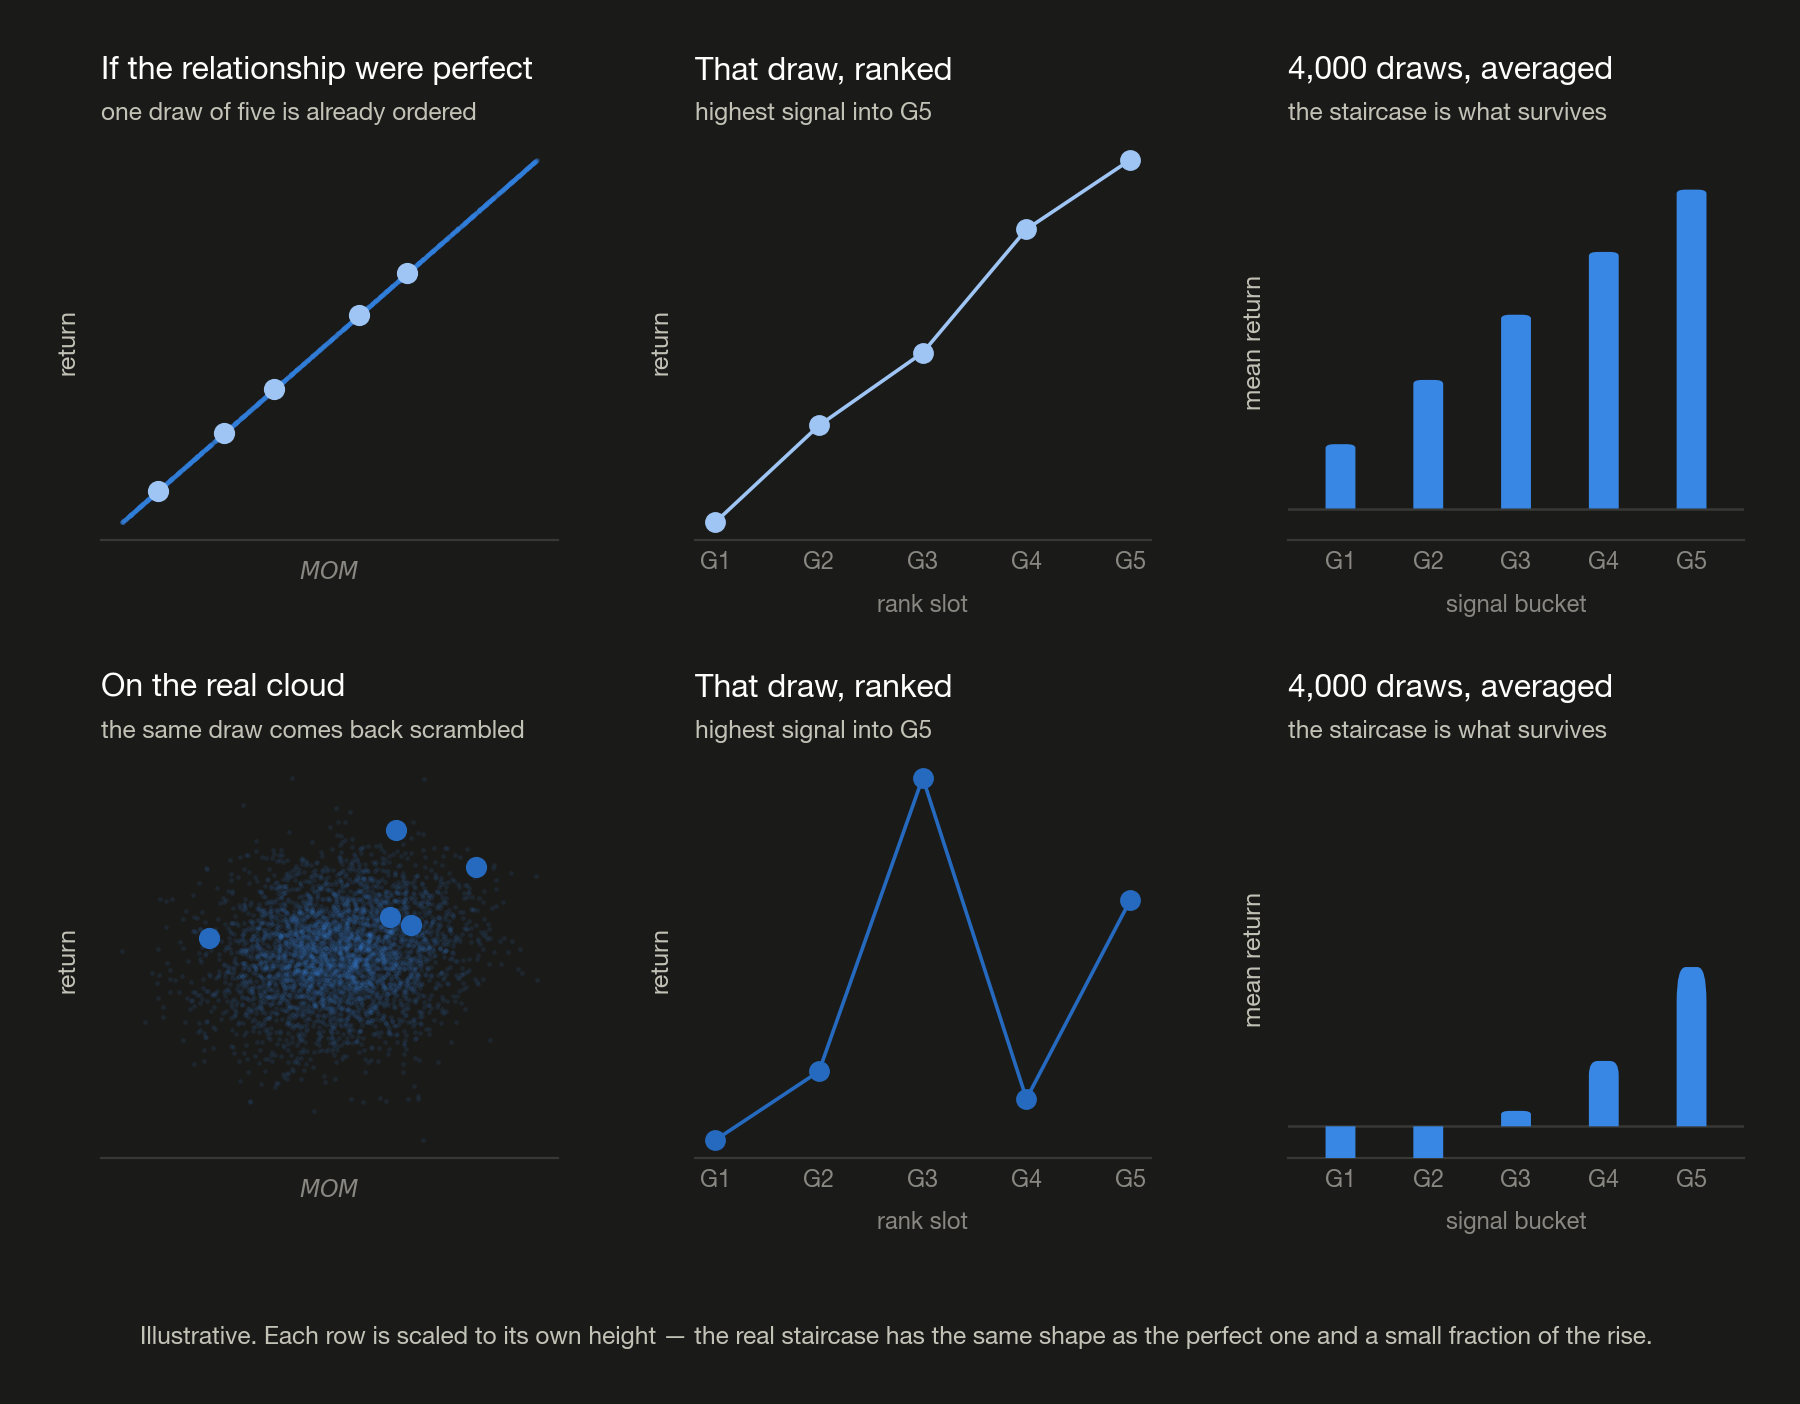
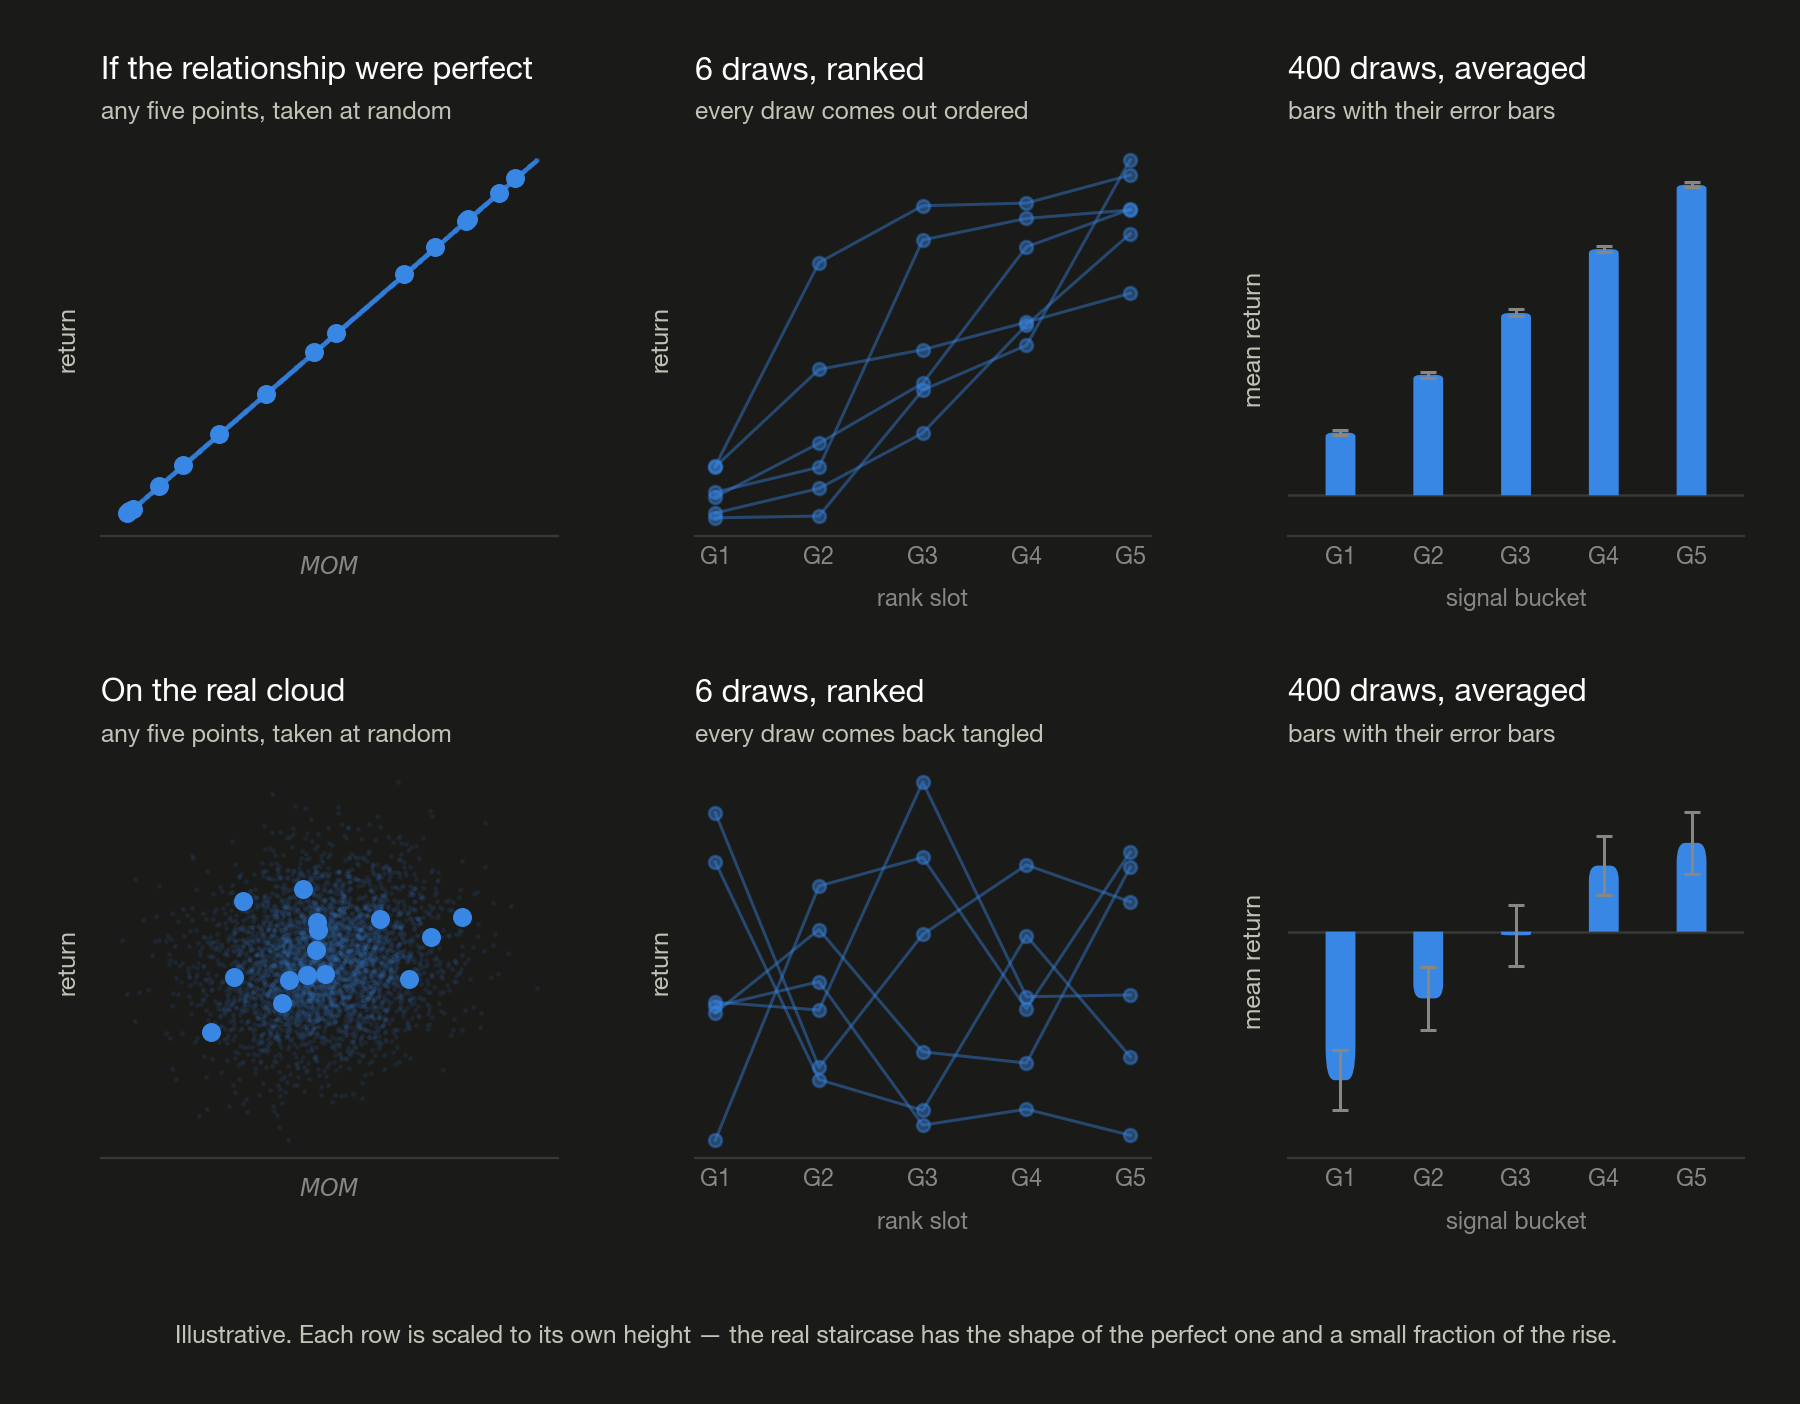
Put error bars on 3.2's staircase and stop the draws looking like two classes
Every drawn point is now the same colour, fifteen of them scattered through
the population, so the figure says any five will do. The middle column shows
six draws at once instead of one: on the line they all rise, on the cloud they
cross and tangle. The averaged bars carry error bars, baselined at zero like
the rest of the chapter, and the count drops to 400 draws so those error bars
are honest and visible rather than a rounding line.

diff --git a/docs/figures/make_02_building_signals.py b/docs/figures/make_02_building_signals.py
@@ -151,80 +151,80 @@ def alpha_opacity(mode):
 def bucket_construction(mode):
     """02 s3.2 -- draw five, rank them, repeat, average — on a line and on a cloud.
 
-    Schematic. Top row: a perfect relationship, where one draw of five is
-    already ordered. Bottom row: the real 12%-correlation cloud, where the same
-    draw comes back scrambled and the order only survives the average. Right
-    column keeps the shape and loses most of the height. Illustrative values.
+    Schematic. Top row: a perfect relationship, where every draw of five comes
+    out ordered. Bottom row: the real 12%-correlation cloud, where each draw is
+    tangled and the order survives only in the average of 400 of them. Every
+    drawn point is the same colour: any five will do, and no draw is special.
     """
     t = THEMES[mode]
-    rng = np.random.RandomState(4)
-    dark, light = t["ramp"][5], t["ramp"][2]
-    n, draws = 4000, 4000
+    rng = np.random.RandomState(9)
+    n, shown, total = 4000, 6, 400
 
-    # ---- the two worlds, each a population to sample from
     lx = rng.uniform(0, 10, n)
     ly = lx.copy()                                   # perfect: return is the signal
     cx = rng.standard_normal(n)
     cy = 0.12 * cx + (1 - 0.12 ** 2) ** 0.5 * rng.standard_normal(n)
 
-    pick_l = rng.choice(n, 5, replace=False)
-    pick_c = np.array([i for i in rng.choice(n, 40, replace=False)][:5])
-
-    def ladder(px, py):
-        """mean return per rank slot, over many draws of five"""
-        idx = rng.randint(0, len(px), size=(draws, 5))
-        xs, ys = px[idx], py[idx]
-        order = np.argsort(xs, axis=1)
-        return np.take_along_axis(ys, order, axis=1).mean(axis=0)
+    def slots(px, py, k):
+        """k draws of five, each sorted by signal into rank slots G1..G5"""
+        idx = rng.randint(0, len(px), size=(k, 5))
+        order = np.argsort(px[idx], axis=1)
+        return np.take_along_axis(py[idx], order, axis=1), idx
 
     rows = (
-        (lx, ly, pick_l, dark, "If the relationship were perfect",
-         "one draw of five is already ordered"),
-        (cx, cy, pick_c, light, "On the real cloud",
-         "the same draw comes back scrambled"),
+        (lx, ly, "If the relationship were perfect", "any five points, taken at random",
+         "every draw comes out ordered"),
+        (cx, cy, "On the real cloud", "any five points, taken at random",
+         "every draw comes back tangled"),
     )
 
     fig, axes = plt.subplots(2, 3, figsize=(10.6, 6.6),
-                             gridspec_kw=dict(wspace=0.30, hspace=0.55))
+                             gridspec_kw=dict(wspace=0.30, hspace=0.58))
     fig.patch.set_facecolor(t["surface"])
 
-    for (px, py, pick, colour, head, sub), (ax, bx, cxx) in zip(rows, axes):
-        # source population, with the five drawn points called out
+    for (px, py, head, sub, mid_sub), (ax, bx, cxx) in zip(rows, axes):
+        ranked, idx = slots(px, py, shown)
+        picked = idx[:3].ravel()                     # three draws' worth, one colour
+
+        # ---- where the points come from
         style_axes(ax, t, ylabel="return", xlabel="$MOM$", grid=False)
         ax.scatter(px, py, s=3.0, color=t["series"], alpha=0.10, linewidths=0, zorder=2)
-        ax.scatter(px[pick], py[pick], s=44, color=colour, zorder=4)
+        ax.scatter(px[picked], py[picked], s=34, color=t["series"], zorder=4)
         ax.set_xticks([])
         ax.set_yticks([])
         titles(ax, t, head, sub)
 
-        # that one draw, at the rank slot each point fell into
-        sel = np.argsort(px[pick])
+        # ---- each draw, at the rank slot its five points fell into
         style_axes(bx, t, ylabel="return", xlabel="rank slot", grid=False)
-        bx.plot(range(5), py[pick][sel], color=colour, linewidth=1.3,
-                marker="o", markersize=6.5, zorder=4)
+        for row in ranked:
+            bx.plot(range(5), row, color=t["series"], alpha=0.42, linewidth=1.1,
+                    marker="o", markersize=4.6, zorder=4)
         bx.set_xticks(range(5))
         bx.set_xticklabels(["G1", "G2", "G3", "G4", "G5"])
         bx.set_yticks([])
-        titles(bx, t, "That draw, ranked", "highest signal into G5")
+        titles(bx, t, f"{shown} draws, ranked", mid_sub)
 
-        # and the average over 4,000 of them
-        means = ladder(px, py)
-        base = min(0.0, means.min())
+        # ---- and the average of many, with the error on it
+        allr, _ = slots(px, py, total)
+        means, errs = allr.mean(axis=0), allr.std(axis=0) / total ** 0.5
         style_axes(cxx, t, ylabel="mean return", xlabel="signal bucket")
         for i, v in enumerate(means):
-            rounded_bar(cxx, i, v, base=base, color=t["series"], width=0.34)
-        cxx.axhline(base, color=t["baseline"], linewidth=0.9, zorder=2)
-        span = means.max() - base
-        cxx.set_ylim(base - 0.10 * span, means.max() + 0.15 * span)
+            rounded_bar(cxx, i, v, color=t["series"], width=0.34)
+        cxx.errorbar(range(5), means, yerr=errs, fmt="none", ecolor=t["muted"],
+                     elinewidth=1.1, capsize=3, capthick=1.1, zorder=5)
+        cxx.axhline(0, color=t["baseline"], linewidth=0.9, zorder=2)
+        lo, hi = (means - errs).min(), (means + errs).max()
+        pad = 0.16 * (hi - lo)
+        cxx.set_ylim(min(0, lo) - pad, hi + pad)
         cxx.set_xlim(-0.6, 4.6)
         cxx.set_xticks(range(5))
         cxx.set_xticklabels(["G1", "G2", "G3", "G4", "G5"])
         cxx.set_yticks([])
-        titles(cxx, t, "4,000 draws, averaged", "the staircase is what survives")
+        titles(cxx, t, f"{total} draws, averaged", "bars with their error bars")
 
     fig.text(0.5, -0.03,
-             "Illustrative. Each row is scaled to its own height — the real staircase has the same "
-             "shape as the perfect one and a small fraction of the rise.",
+             "Illustrative. Each row is scaled to its own height — the real staircase has the shape "
+             "of the perfect one and a small fraction of the rise.",
              ha="center", color=t["ink_secondary"], fontsize=8.8)
     save(fig, t, f"bucket-construction-{mode}.png")
 

diff --git a/docs/02-building-signals.md b/docs/02-building-signals.md
@@ -108,10 +108,10 @@ return from one observation to the next, 1.44% is linear in the signal and 98.56
 equity ETF, a **basis point** being 0.01%:
 
 | Component             | Size                            | At 12% correlation |
-| --------------------- | ------------------------------- | ----------------- |
-| Total return          | $\sigma_y$                    | 120 bp            |
-| What the signal moves | $\rho \sigma_y$               | **14.4 bp** |
-| What it does not      | $\sigma_y (1 - \rho^2)^{1/2}$ | **119 bp**  |
+| --------------------- | ------------------------------- | ------------------ |
+| Total return          | $\sigma_y$                    | 120 bp             |
+| What the signal moves | $\rho \sigma_y$               | **14.4 bp**  |
+| What it does not      | $\sigma_y (1 - \rho^2)^{1/2}$ | **119 bp**   |
 
 Across an x-axis running from $-2\sigma_x$ to $+2\sigma_x$ the trend line climbs about 58 bp end
 to end, while at every $x$ the points scatter over roughly 476 bp. **A 0.6% slope inside a 4.8%
@@ -166,12 +166,13 @@ concluding anything **from** a cloud.
 2. **Rank** those five by signal value, highest to lowest.
 3. **Assign** them to slots: highest signal into G5, next into G4, down to G1.
 4. **Record** the forward return each one went on to deliver, filed under its slot.
-5. **Repeat** steps 1–4 a few thousand times.
-6. **Average** everything filed under G1, then G2, and so on — five numbers, drawn as five bars.
+5. **Repeat** steps 1–4 a few hundred times.
+6. **Average** everything filed under G1, then G2, and so on — five numbers, drawn as five bars
+   with the error on each.
 
 <picture>
   <source media="(prefers-color-scheme: dark)" srcset="figures/bucket-construction-dark.png">
-  <img alt="Six panels in two rows, each row running the same steps. Top row, a perfect linear relationship: five points drawn off the line, those five ranked into slots G1 to G5 rising monotonically, and the average over 4,000 draws as a clean staircase. Bottom row, the real 12 percent correlation cloud: five points drawn from it, those five ranked into a scrambled zigzag with G3 highest and G4 lowest, and the average over 4,000 draws as a monotone staircase running from a negative G1 to a positive G5" src="figures/bucket-construction-light.png">
+  <img alt="Six panels in two rows, each row running the same steps on a different world. Left column, the population with fifteen randomly drawn points marked in the same colour: on a perfect line they sit along it, on the real cloud they sit anywhere. Middle column, six draws of five plotted against rank slots G1 to G5: on the line every draw rises monotonically, on the cloud the six lines cross and tangle with no order at all. Right column, the average over 400 draws with error bars: a clean staircase on the line, and on the cloud a shorter staircase from a negative G1 to a positive G5 whose error bars are a third of the bar heights" src="figures/bucket-construction-light.png">
 </picture>
 
 **Why that carries information.** Three things are true of those six steps, and together they turn
@@ -182,11 +183,11 @@ else — no fitted line, no assumption that return rises with it. So they run un
 the answer is unknown, and any staircase that survives step 6 was not put in at step 1.
 
 **A single draw is worthless, and the average is not.** The figure's top row runs the steps on a
-perfect relationship, where one draw of five comes out already ordered — calibration rather than
+perfect relationship, where every draw of five comes out already ordered — calibration rather than
 evidence, fixing what success looks like. The bottom row runs the identical steps on § 2's real
-scatter, and the same draw comes back **scrambled**: the third-ranked signal delivered the best
-return, the fourth-ranked the worst. At 12% correlation nothing about one draw should be monotone.
-The staircase belongs to step 6, never to any draw inside it.
+scatter, and there the six draws **cross and tangle**: not one of them is monotone, and at 12%
+correlation not one should be. The staircase belongs to step 6, never to any draw inside it — which
+is why the bars are drawn with the error on them, and why § 4 keeps insisting on that.
 
 **The arithmetic says step 5 is what buys that.** Which is the one part of the construction that
 can be proved rather than shown.
@@ -198,11 +199,11 @@ because averaging shrinks the noise and leaves the signal intact.
 expectation $\beta$ times their mean signal, while the noise around that mean shrinks to
 $\sigma_\epsilon / m^{1/2}$:
 
-| | One observation | Mean of 300 |
-| --- | --- | --- |
-| Signal | 14.4 bp | 14.4 bp |
-| Noise | 119 bp | $119 / 300^{1/2} \approx 6.9$ bp |
-| Ratio | 1 : 8 | **2 : 1** |
+|        | One observation | Mean of 300                        |
+| ------ | --------------- | ---------------------------------- |
+| Signal | 14.4 bp         | 14.4 bp                            |
+| Noise  | 119 bp          | $119 / 300^{1/2} \approx 6.9$ bp |
+| Ratio  | 1 : 8           | **2 : 1**                    |
 
 <picture>
   <source media="(prefers-color-scheme: dark)" srcset="figures/noise-shrinks-dark.png">
